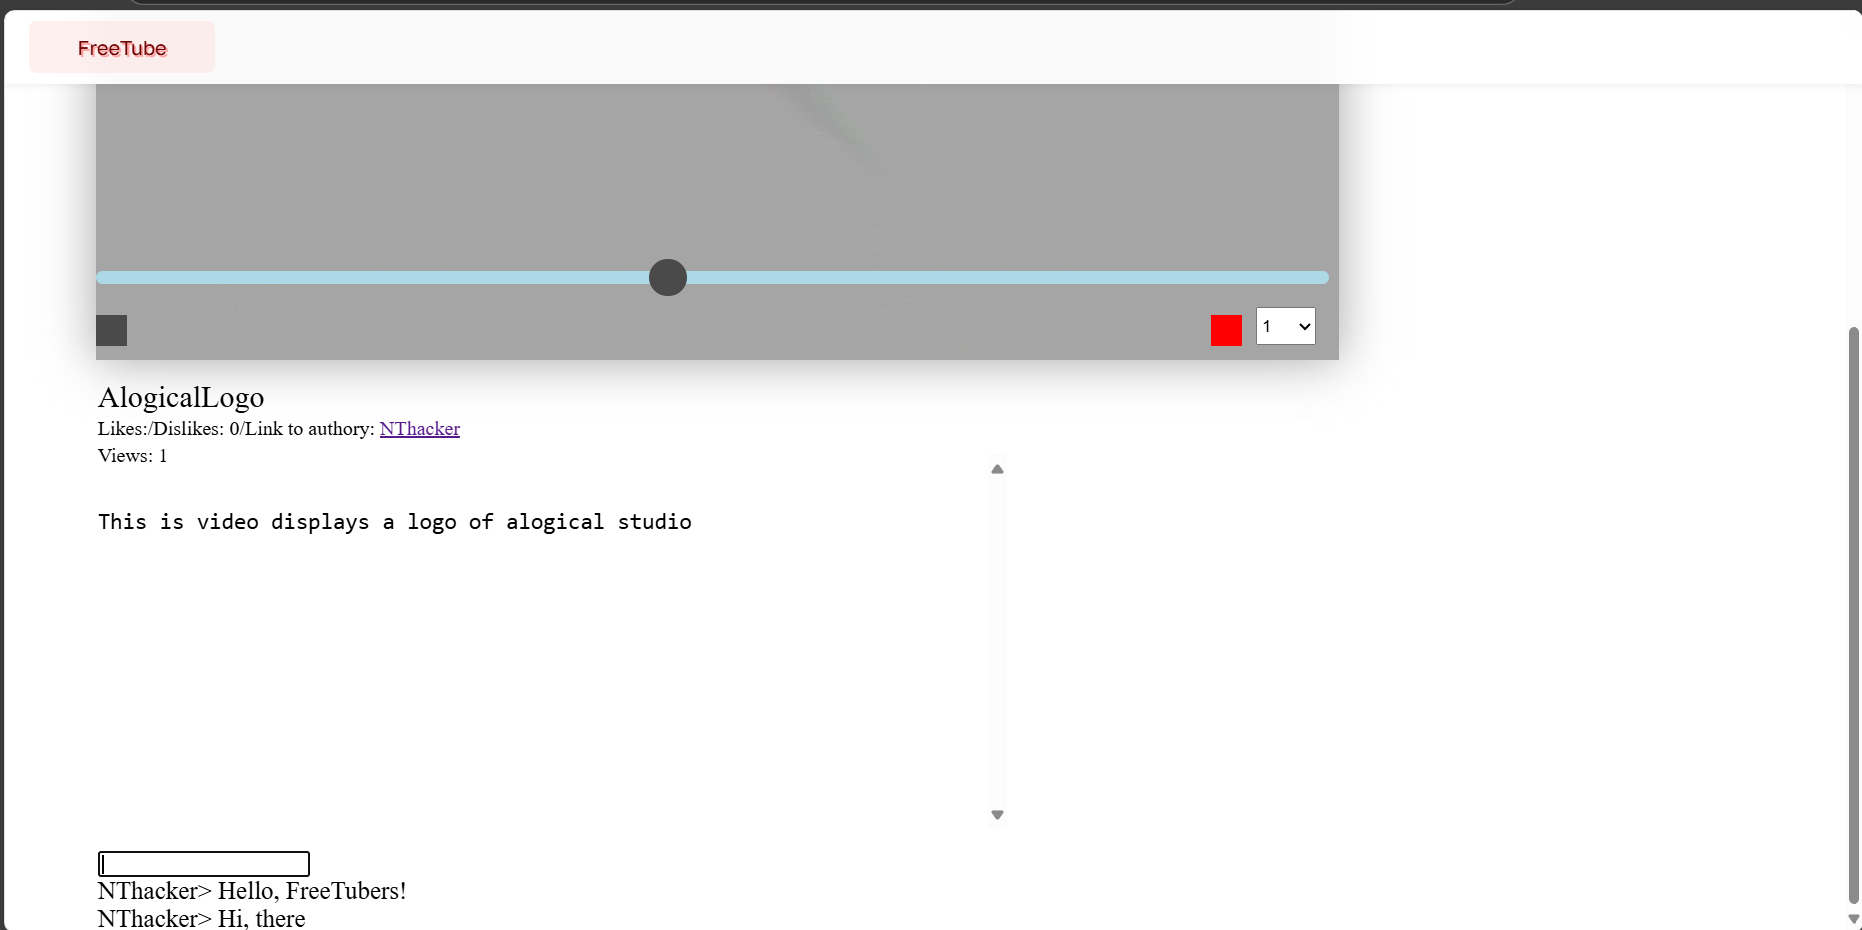
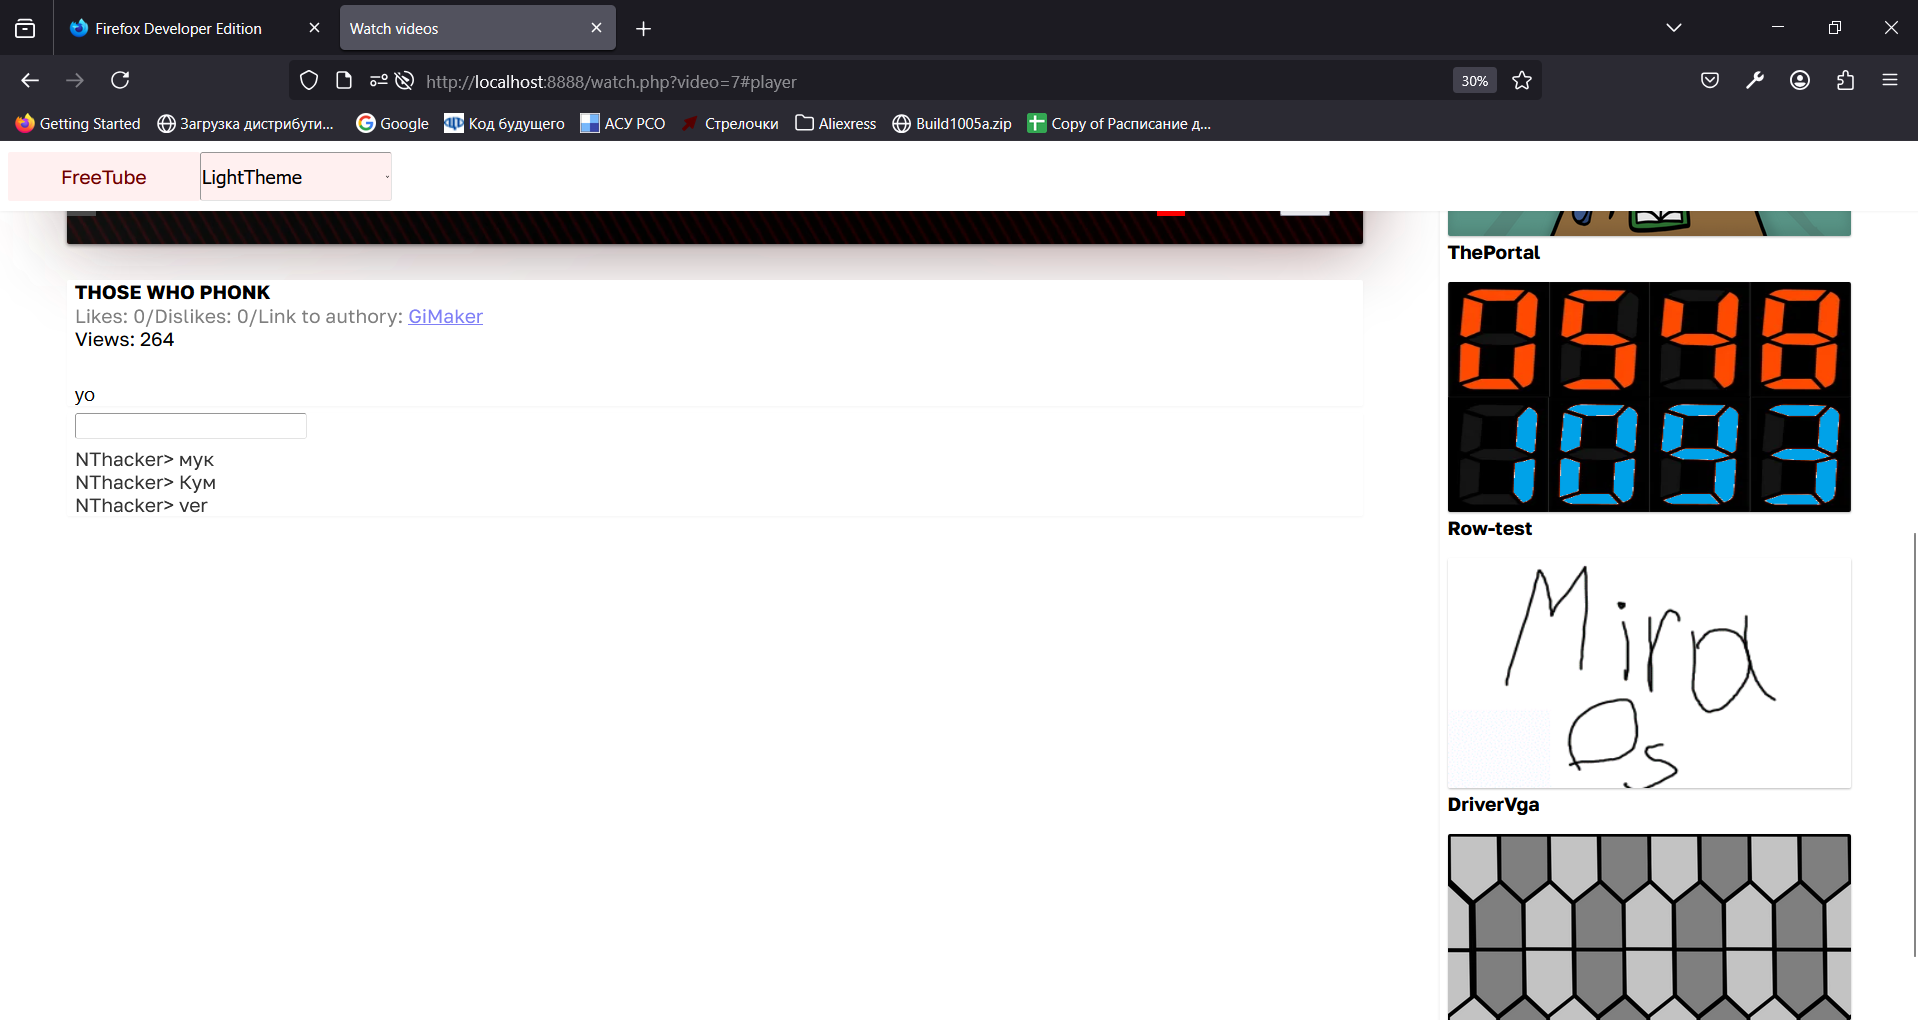
Adapted for all resolutions, (readme.md screenshot 30%)

diff --git a/style/old.css b/style/old.css
@@ -1,7 +1,6 @@
 /* Design created by GiMaker 2025
 Legacy CSS were used so if something were not updated then it worked at least
 */
-
 html, body {
 	margin: 0px;
 	width: 100%;
@@ -61,7 +60,7 @@ html, body {
 	position: fixed;
 	font-family: Golos Text;
 	font-weight: Regular;
-	font-size: 1vw;
+	font-size: 100%;
 	opacity: 1;
 	text-align: center;
 	padding-top: 3px;
@@ -74,7 +73,7 @@ html, body {
 	position: fixed;
 	font-family: Golos Text;
 	font-weight: Regular;
-	font-size: 1vw;
+	font-size: 100%;
 	opacity: 1;
 	text-align: center;
 	z-index: 2;
@@ -85,7 +84,7 @@ html, body {
 	width: 75%;
 	height: 100%;
 	display: block;
-	left: 3.5vw;
+	left: 65px;
 	position: relative;
 }
 
@@ -96,10 +95,10 @@ video, .video {
 }
 
 video {
-	position: absolute;
+	position: relative;
 	border-radius: 6px;
 	box-shadow: 0px 3px 8px rgba(0, 0, 0, 0.5);
-	top: 5vw;
+	top: 70px;
 }
 
 .videoblur {
@@ -111,11 +110,12 @@ video {
 	opacity: 0.5;
  	position: absolute;
  	z-index: -1;
-	top: 5vw;
+	top: 70px;
  }
 
 .next-videos {
 	width: 25%;
+	height: 100%;
 	right: 0%;
 	position: absolute;
 	top: 50px;
@@ -132,23 +132,23 @@ video {
 
 .controlls {
 	width: 89%;
-	height: 3vw;
-	position: absolute;
+	height: 25px;
+	position: relative;
 	justify-content: center;
 	align-items: center;
-	top: 40vw !important; 
+	top: 130px !important; 
 /*	left: 10%; */
 }
 
 #pause {
-	width: 1.5vw;
-	height: 1.5vw;
+	width: 25px;
+	height: 25px;
 	background-color: rgb(74, 74, 74); 
 }
 
 #fullscreen {
-	width: 1.5vw;
-	height: 1.5vw;
+	width: 25px;
+	height: 25px;
 	background-color: red;
 	position: absolute;
 	left: 85%;
@@ -156,29 +156,29 @@ video {
 }
 
 .polzunok {
-	width: 2vw;
-	height: 2vw;
+	width: 30px;
+	height: 30px;
 	background-color: rgb(74, 74, 74);
 	border-radius: 100%;
 	position: relative;
 	left: 0%;
-	bottom: 0.65vw;
+	bottom: 10px;
 }
 
 .scroll {
 	position: absolute;
 	width: 100%;
-	height: 0.5vw;
+	height: 10px;
 	background-color: lightblue;
-	bottom: 5vw;
+	bottom: 50px;
 	border-radius: 10px;
 }
 
 #playBackRate {
 	position: absolute;
-	right: 1vw;
-	top: -0.5vw;
-	height: 2vw;
+	top: -25%;
+	right: 7%;
+	height: 30px;
 }
 
 .fullscreen {
@@ -203,7 +203,7 @@ video {
 
 .card {
 	width: 100%;
-	height: 14vw;
+	height: 200px;
 	margin: 20px;
 	font-family: Golos Text;
 	font-weight: Bold;
@@ -263,8 +263,8 @@ video {
 
 .titleV {
 	position: relative;
-	left: 3.5vw;
-	top: -1vw;
+	top: 50px;
+	left: 65px;
 
 }
 
@@ -316,14 +316,14 @@ video {
 
 .commentBubble {
 	position: relative;
-	width: 67.5%;
+	width: 68%;
 	height: fit-content;
 	border-radius: 6px;
 	box-shadow: 0px 3px 4px rgba(0, 0, 0, 0.03999999910593033);
 	background: white;
 	opacity: 1;
-	left: 3.5vw;
-	top: -1vw;
+	left: 65px;
+	top: 150px;
 	display: block;
 }
 
@@ -352,14 +352,4 @@ pre {
 
 .goToVideo {
 	display: none;
-}
-
-
-* {
-	font-size: 1vw !important;
-}
-
-img {
-	width: 21vw !important;
-	height: 12vw !important;
 }

diff --git a/style/freeStyleVideo.css b/style/freeStyleVideo.css
@@ -107,7 +107,7 @@ video {
 	justify-content: center;
 	align-items: center;
 	left: 5%;
-	top: 30%;
+	top: 32%;
 	z-index: 1 !important;
 }
 
@@ -143,7 +143,7 @@ video {
 .controlls {
 	width: 90%;
 	left: 7.5%;
-	top: 27.5%;
+	top: -21.5%;
 	height: 25px;
 	position: relative;
 	justify-content: center;
@@ -275,7 +275,7 @@ video {
 
 .titleV {
 	position: relative;
-	top: 11%;
+	top: 15%;
 	left: 5%;
 }
 
@@ -333,7 +333,7 @@ video {
 	box-shadow: 0px 3px 4px rgba(0, 0, 0, 0.03999999910593033);
 	background: white;
 	opacity: 1;
-	top: 11%;
+	top: 14%;
 	left: 5%;
 	display: block;
 }
